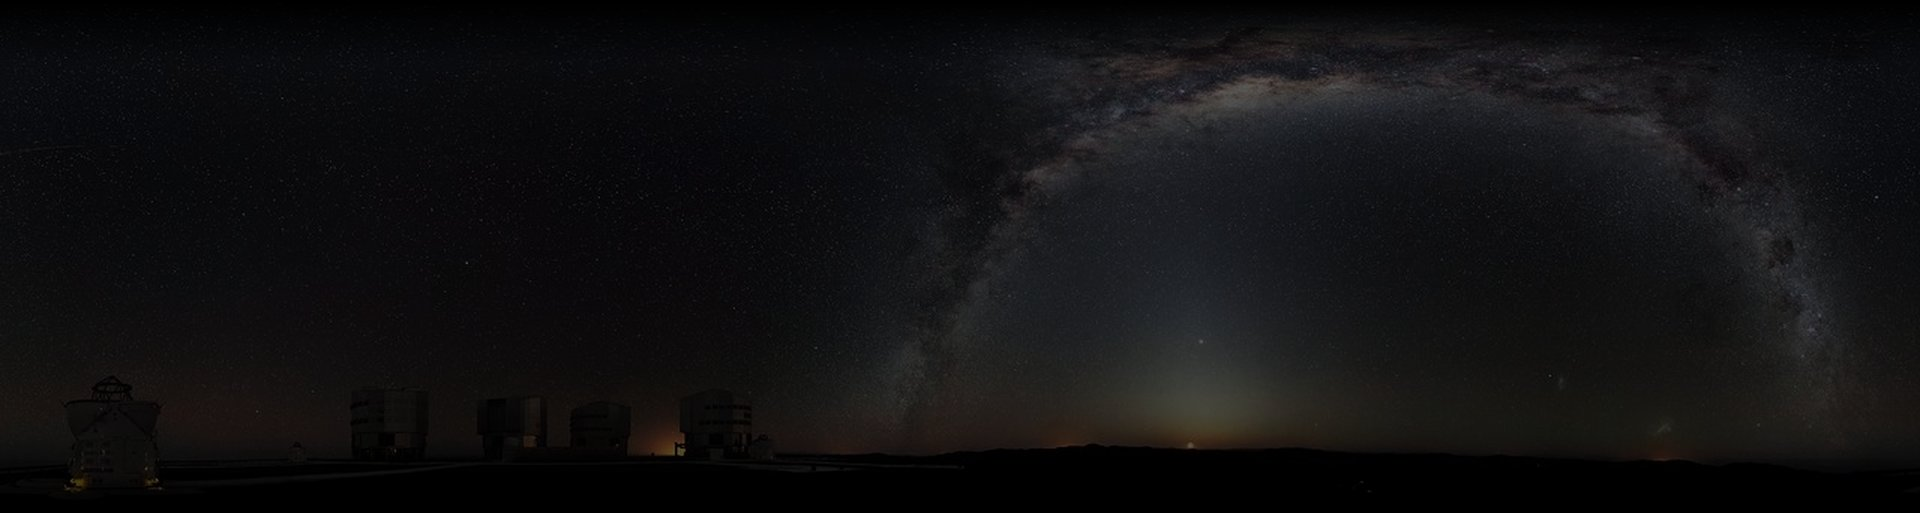
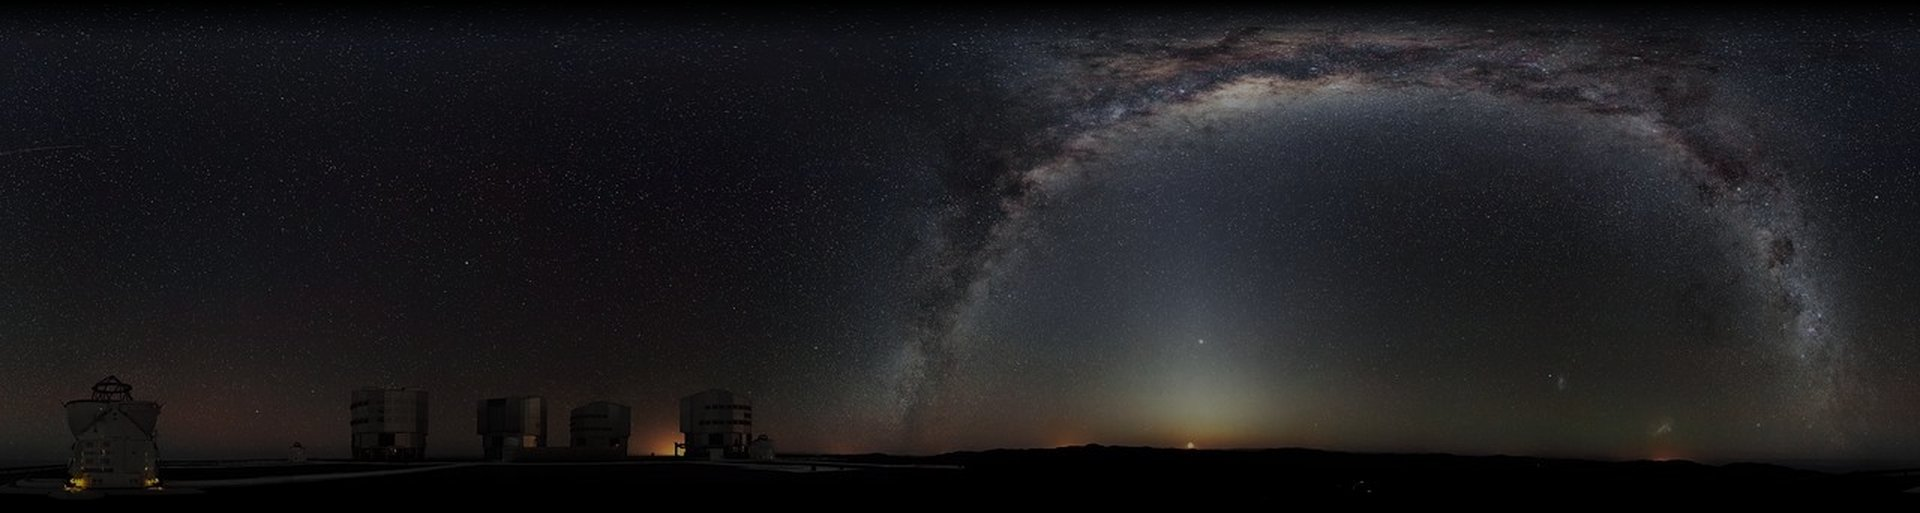
v1.0: Brighter Milky Way (60%), faster initial appearance
- Background brightness 60% (was 35%) — the galaxy is vivid now
- Walt appears within 0.1s (opacity 0.25 at 1%) instead of ~1s lag
- Starts at scale(0.03) not scale(0.015) — visible speck immediately
- Same 9s total duration, same gradual descent, just no dead air

diff --git a/src/App.jsx b/src/App.jsx
@@ -565,29 +565,27 @@ export default function App() {
     <>
       <style>{`
         @keyframes paperMario {
-          0%   { transform: translateY(-180vh) rotateY(0deg) scale(0.015); opacity: 0; }
-          1%   { transform: translateY(-178vh) rotateY(15deg) scale(0.017); opacity: 0.08; }
-          3%   { transform: translateY(-172vh) rotateY(45deg) scale(0.02); opacity: 0.15; }
-          5%   { transform: translateY(-165vh) rotateY(90deg) scale(0.025); opacity: 0.22; }
-          8%   { transform: translateY(-155vh) rotateY(160deg) scale(0.035); opacity: 0.3; }
-          11%  { transform: translateY(-142vh) rotateY(250deg) scale(0.05); opacity: 0.38; }
-          15%  { transform: translateY(-128vh) rotateY(360deg) scale(0.07); opacity: 0.46; }
-          19%  { transform: translateY(-114vh) rotateY(480deg) scale(0.10); opacity: 0.53; }
-          23%  { transform: translateY(-100vh) rotateY(600deg) scale(0.14); opacity: 0.60; }
-          28%  { transform: translateY(-86vh) rotateY(720deg) scale(0.19); opacity: 0.67; }
-          33%  { transform: translateY(-72vh) rotateY(830deg) scale(0.25); opacity: 0.74; }
-          38%  { transform: translateY(-60vh) rotateY(930deg) scale(0.32); opacity: 0.80; }
-          44%  { transform: translateY(-48vh) rotateY(1020deg) scale(0.40); opacity: 0.86; }
-          50%  { transform: translateY(-38vh) rotateY(1090deg) scale(0.48); opacity: 0.91; }
-          56%  { transform: translateY(-28vh) rotateY(1150deg) scale(0.56); opacity: 0.95; }
-          62%  { transform: translateY(-20vh) rotateY(1210deg) scale(0.64); opacity: 0.98; }
-          68%  { transform: translateY(-14vh) rotateY(1265deg) scale(0.72); opacity: 1; }
-          74%  { transform: translateY(-8vh) rotateY(1315deg) scale(0.80); }
-          80%  { transform: translateY(-4vh) rotateY(1355deg) scale(0.87); }
-          86%  { transform: translateY(-1vh) rotateY(1390deg) scale(0.93); }
-          91%  { transform: translateY(1vh) rotateY(1420deg) scale(0.97); }
-          95%  { transform: translateY(-0.3vh) rotateY(1435deg) scale(0.99); }
-          98%  { transform: translateY(0.1vh) rotateY(1439deg) scale(1.0); }
+          0%   { transform: translateY(-180vh) rotateY(0deg) scale(0.03); opacity: 0; }
+          1%   { transform: translateY(-176vh) rotateY(20deg) scale(0.035); opacity: 0.25; }
+          3%   { transform: translateY(-168vh) rotateY(60deg) scale(0.045); opacity: 0.4; }
+          6%   { transform: translateY(-155vh) rotateY(130deg) scale(0.06); opacity: 0.5; }
+          10%  { transform: translateY(-140vh) rotateY(240deg) scale(0.08); opacity: 0.58; }
+          14%  { transform: translateY(-125vh) rotateY(360deg) scale(0.11); opacity: 0.65; }
+          19%  { transform: translateY(-108vh) rotateY(500deg) scale(0.15); opacity: 0.72; }
+          24%  { transform: translateY(-92vh) rotateY(640deg) scale(0.20); opacity: 0.78; }
+          29%  { transform: translateY(-78vh) rotateY(770deg) scale(0.27); opacity: 0.83; }
+          35%  { transform: translateY(-64vh) rotateY(890deg) scale(0.34); opacity: 0.88; }
+          41%  { transform: translateY(-52vh) rotateY(990deg) scale(0.42); opacity: 0.92; }
+          47%  { transform: translateY(-40vh) rotateY(1070deg) scale(0.50); opacity: 0.95; }
+          53%  { transform: translateY(-30vh) rotateY(1140deg) scale(0.58); opacity: 0.98; }
+          59%  { transform: translateY(-22vh) rotateY(1200deg) scale(0.65); opacity: 1; }
+          65%  { transform: translateY(-15vh) rotateY(1255deg) scale(0.72); }
+          71%  { transform: translateY(-9vh) rotateY(1305deg) scale(0.79); }
+          77%  { transform: translateY(-5vh) rotateY(1345deg) scale(0.86); }
+          83%  { transform: translateY(-2vh) rotateY(1380deg) scale(0.92); }
+          88%  { transform: translateY(0.5vh) rotateY(1410deg) scale(0.96); }
+          93%  { transform: translateY(-0.3vh) rotateY(1430deg) scale(0.99); }
+          97%  { transform: translateY(0.1vh) rotateY(1438deg) scale(1.0); }
           100% { transform: translateY(0) rotateY(1440deg) scale(1.0); opacity: 1; }
         }
         @keyframes fadeIn {
